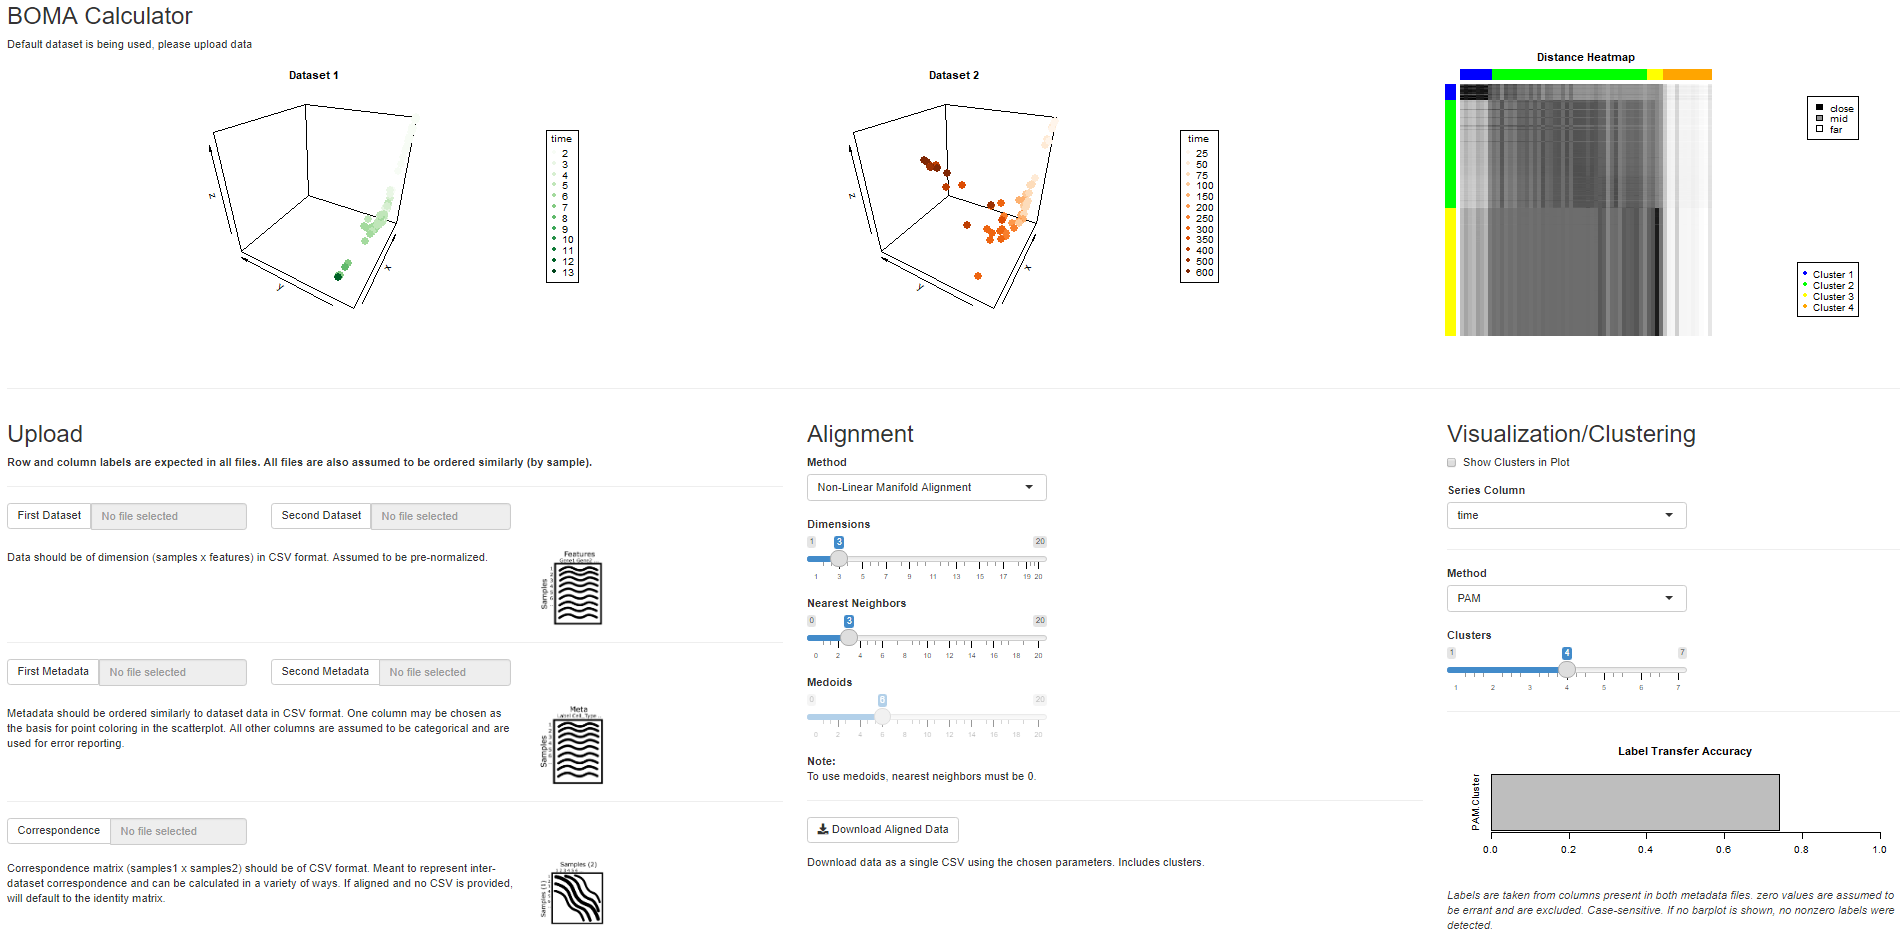
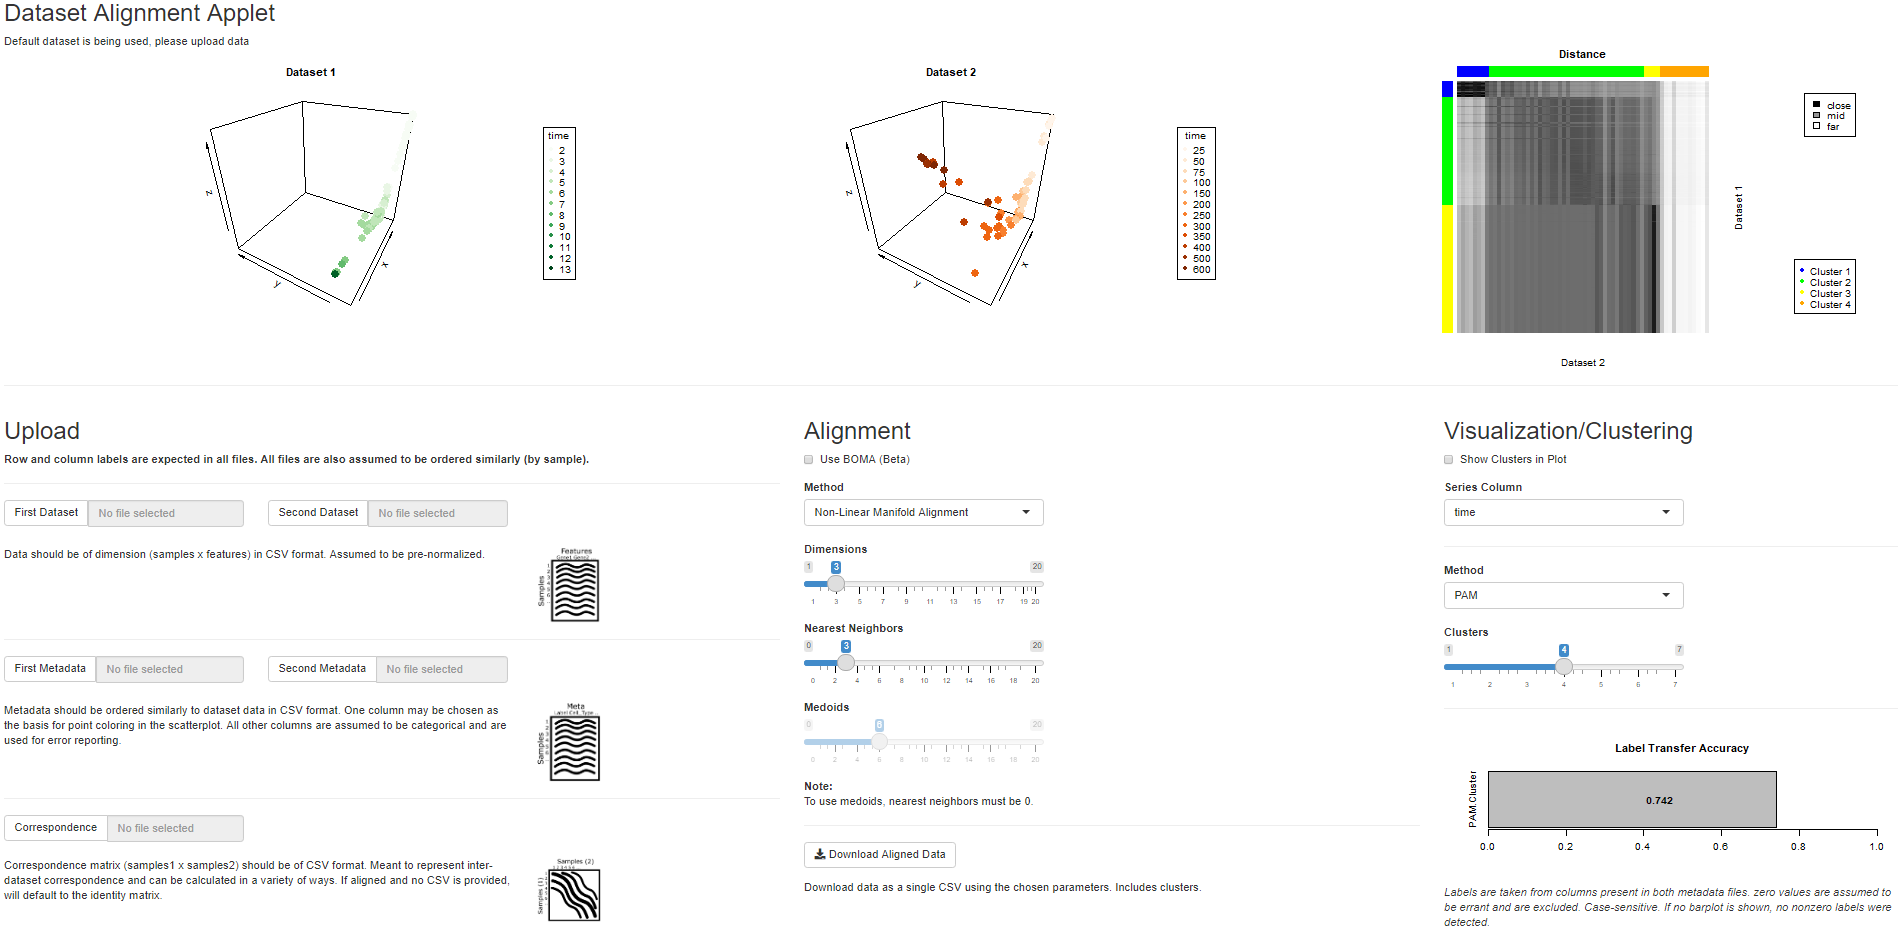
BOMA preliminary updates and QOL/UI

diff --git a/CHANGELOG.md b/CHANGELOG.md
@@ -1,3 +1,10 @@
+# 1.3.5
+- Added heatmap labels
+- Various UI updates
+- Better accuracy barplot formatting
+- Fixed cluster coloration bug
+- Added BOMA checkbox, still needs full implementation
+
 # 1.3.4
 - Change UI text
 - Code optimization
@@ -8,7 +15,6 @@
 - Update helper UI icons
 - Directory reorganization
 - Uploaded raw svg for icons
-
 
 # 1.3.3
 - Removed upload/download size limitation
